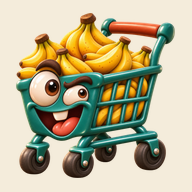
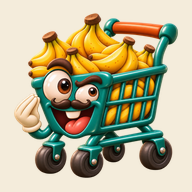
Ajoute une touche italienne aux icônes Bananani

diff --git a/src/app.html b/src/app.html
@@ -2,9 +2,10 @@
 <html lang="fr">
   <head>
     <meta charset="utf-8" />
-    <link rel="icon" type="image/png" sizes="32x32" href="%sveltekit.assets%/favicon-3d.png" />
-    <link rel="apple-touch-icon" sizes="180x180" href="%sveltekit.assets%/pwa/bananani-3d-apple-180.png" />
-    <link rel="manifest" href="%sveltekit.assets%/manifest.webmanifest?v=4" />
+    <link rel="icon" type="image/x-icon" sizes="16x16 32x32 48x48" href="%sveltekit.assets%/favicon.ico?v=5" />
+    <link rel="icon" type="image/png" sizes="32x32" href="%sveltekit.assets%/favicon-3d.png?v=5" />
+    <link rel="apple-touch-icon" sizes="180x180" href="%sveltekit.assets%/pwa/bananani-3d-apple-180.png?v=5" />
+    <link rel="manifest" href="%sveltekit.assets%/manifest.webmanifest?v=5" />
     <meta name="viewport" content="width=device-width, initial-scale=1, viewport-fit=cover" />
     <meta name="theme-color" content="#F4ECDB" />
     <meta name="mobile-web-app-capable" content="yes" />

diff --git a/README.md b/README.md
@@ -239,9 +239,8 @@ Le site est une PWA : on peut l'installer sur l'écran d'accueil (plein écran, 
 barre de navigateur).
 
 - Manifest : [`static/manifest.webmanifest`](./static/manifest.webmanifest) (`display: standalone`).
-- Icônes : `static/icon.svg` (source), `icon-192.png`, `icon-512.png`,
-  `apple-touch-icon.png`, `favicon.ico`. Régénérables depuis le SVG avec
-  `rsvg-convert` (tailles) + `magick`/`convert` (pour le `.ico`).
+- Les icônes d’installation se trouvent dans [`static/pwa/`](./static/pwa/).
+  Le favicon utilise `static/favicon-3d.png` et `static/favicon.ico`.
 - Balises dans [`src/app.html`](./src/app.html) (`manifest`, `apple-touch-icon`,
   meta web-app).
 - **Installer sur Android/Chrome** : ouvrir l'URL → menu ⋮ → « Installer l'application ».
